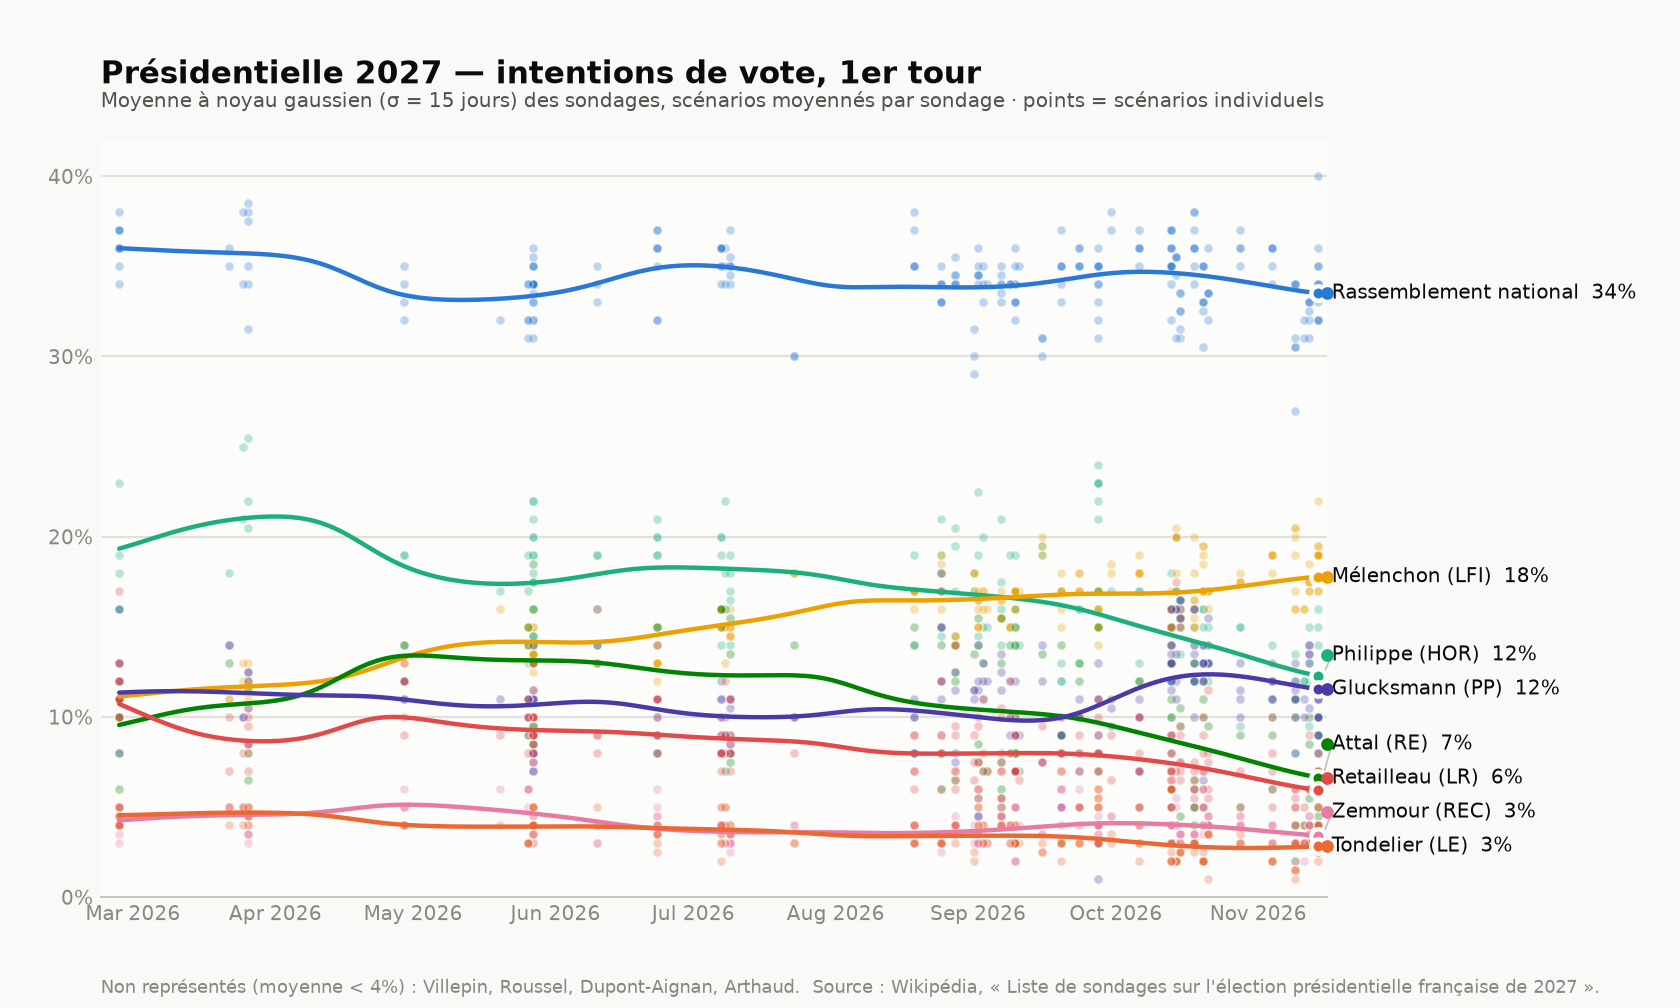
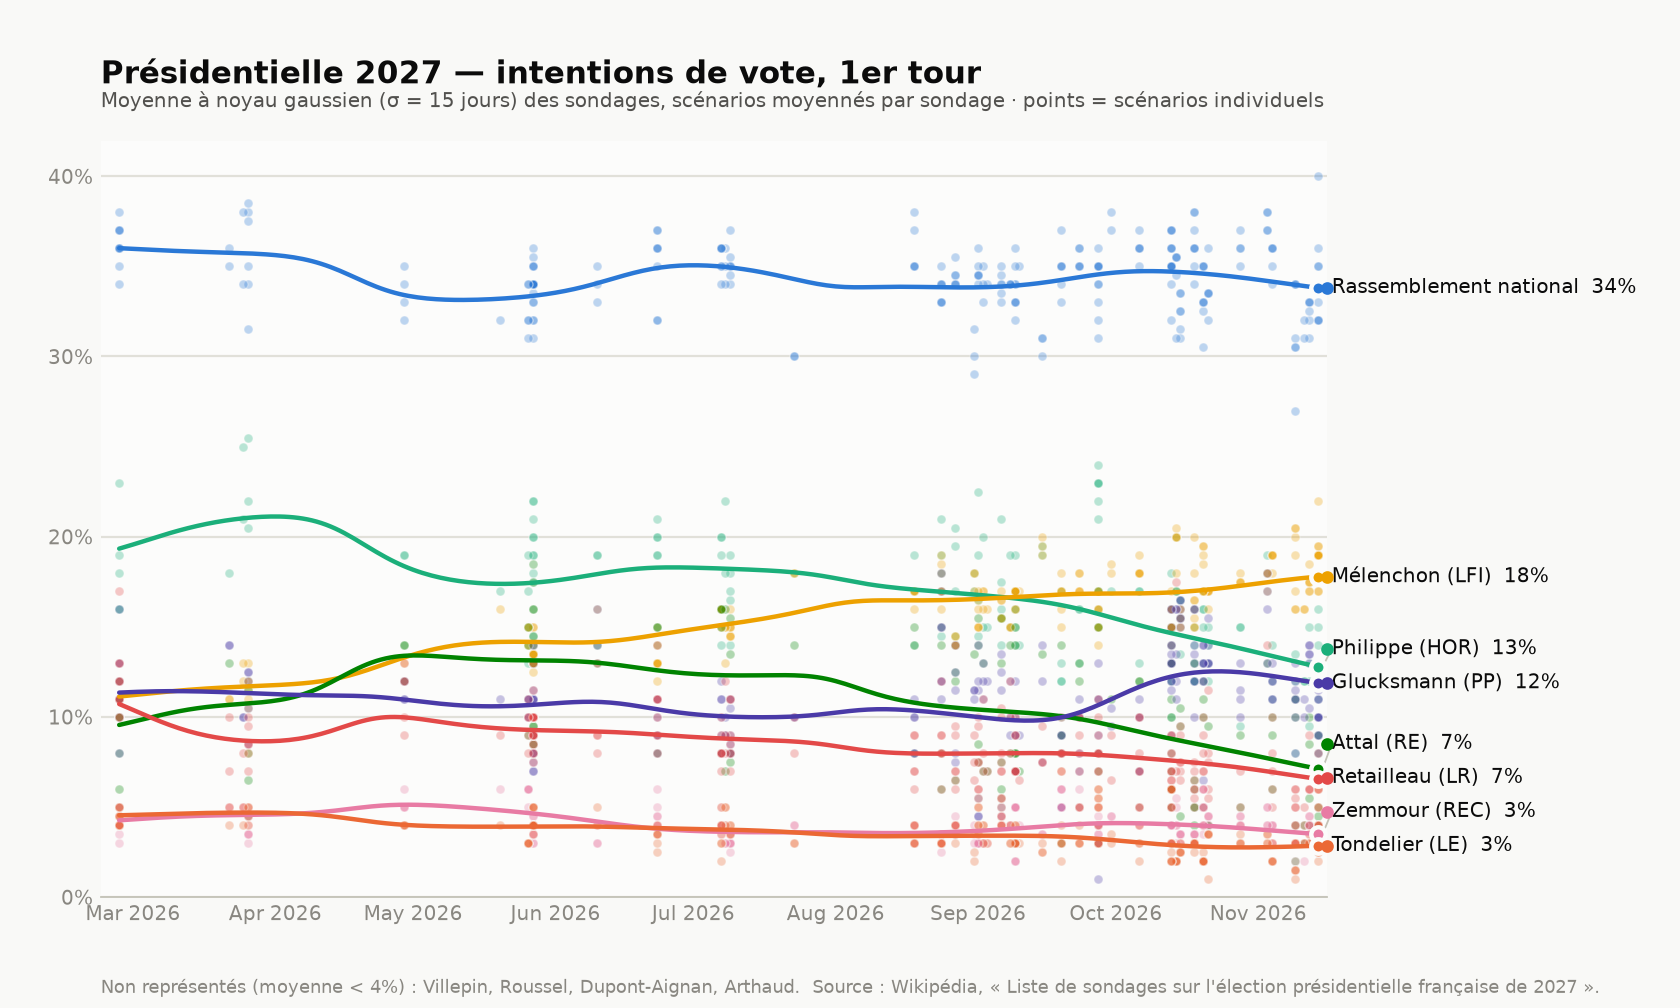
Add Ifop 2-4 November 2026 poll (n=1834); fix OpinionWay capitalization
OpinionWay 9-10 November (n=982) was recorded as "Opinionway" since its
addition; Wikipedia revision 241516481 (Aelion Greeneyes, "Opinionway ->
OpinionWay") corrected the pollster name capitalization, values unchanged.

diff --git a/README.md b/README.md
@@ -61,7 +61,7 @@ python3 parse_polls.py /tmp/frelec_raw.wiki polls_2027_second_round.csv --second
 First-round voting-intention polls, January–November 2026, scraped from the French
 Wikipedia article
 ["Liste de sondages sur l'élection présidentielle française de 2027"](https://fr.wikipedia.org/wiki/Liste_de_sondages_sur_l%27%C3%A9lection_pr%C3%A9sidentielle_fran%C3%A7aise_de_2027)
-(pulled 2026-11-18).
+(pulled 2026-11-20).
 
 David Lisnard (Nouvelle Énergie) gained their own column starting with the
 17–19 October 2026 Ifop poll's sub-table ("Octobre-décembre 2026"). Earlier
@@ -127,7 +127,7 @@ scenarios) — RN (Le Pen)
 31–32%, Mélenchon 16%, Glucksmann 10–11%, Philippe 12%, Lisnard 9–10%,
 Retailleau 4–5%, Attal 3–4%; judoka Teddy Riner was tested as an independent
 candidate in one scenario, folded into `Autre` (4%), alongside Karim
-Bouamrane in both scenarios (≤1%); Opinionway (n=982, 9–10 November, three scenarios) — RN (Le Pen)
+Bouamrane in both scenarios (≤1%); OpinionWay (n=982, 9–10 November, three scenarios) — RN (Le Pen)
 34%, Mélenchon 16–17%, Glucksmann 11–13%, Philippe 11–12% (two scenarios),
 Lisnard 10–12%, Retailleau 4–6%, Attal 4–10% (two scenarios); Cluster17
 (n=1164, 9–10 November, four scenarios) — RN (Le Pen)
@@ -137,7 +137,10 @@ Christine Lagarde was tested as an independent candidate, folded into
 `Autre`, in two scenarios (8–14%); Harris (n=2101, 3–5 November, five scenarios) — RN (Le Pen)
 34–36%, Mélenchon 18–19%, Glucksmann 11–13%, Philippe 11–12% (two
 scenarios), Attal 6–10% (three scenarios), Retailleau 5–10%, Lisnard 9%
-(two scenarios), Villepin 2% (two scenarios); Ifop (n=1501, 27–29 October, four scenarios) — RN (Le Pen)
+(two scenarios), Villepin 2% (two scenarios); Ifop (n=1834, 2–4 November, four scenarios) — RN (Le Pen)
+37–38%, Mélenchon 17–18%, Glucksmann 13–18%, Philippe 19% (one scenario),
+Retailleau 14% (one scenario), Lisnard 14% (one scenario), Attal 13% (one
+scenario); Ifop (n=1501, 27–29 October, four scenarios) — RN (Le Pen)
 35–37%, Mélenchon 17.5–18%, Glucksmann 10–13%, Philippe 9.5–15% (three
 scenarios), Attal 5–9% (two scenarios), Retailleau 4–7% (three scenarios),
 Lisnard 7–9% (three scenarios); Ipsos (n=1500, 21–22 October, four scenarios) — RN (Le Pen)
